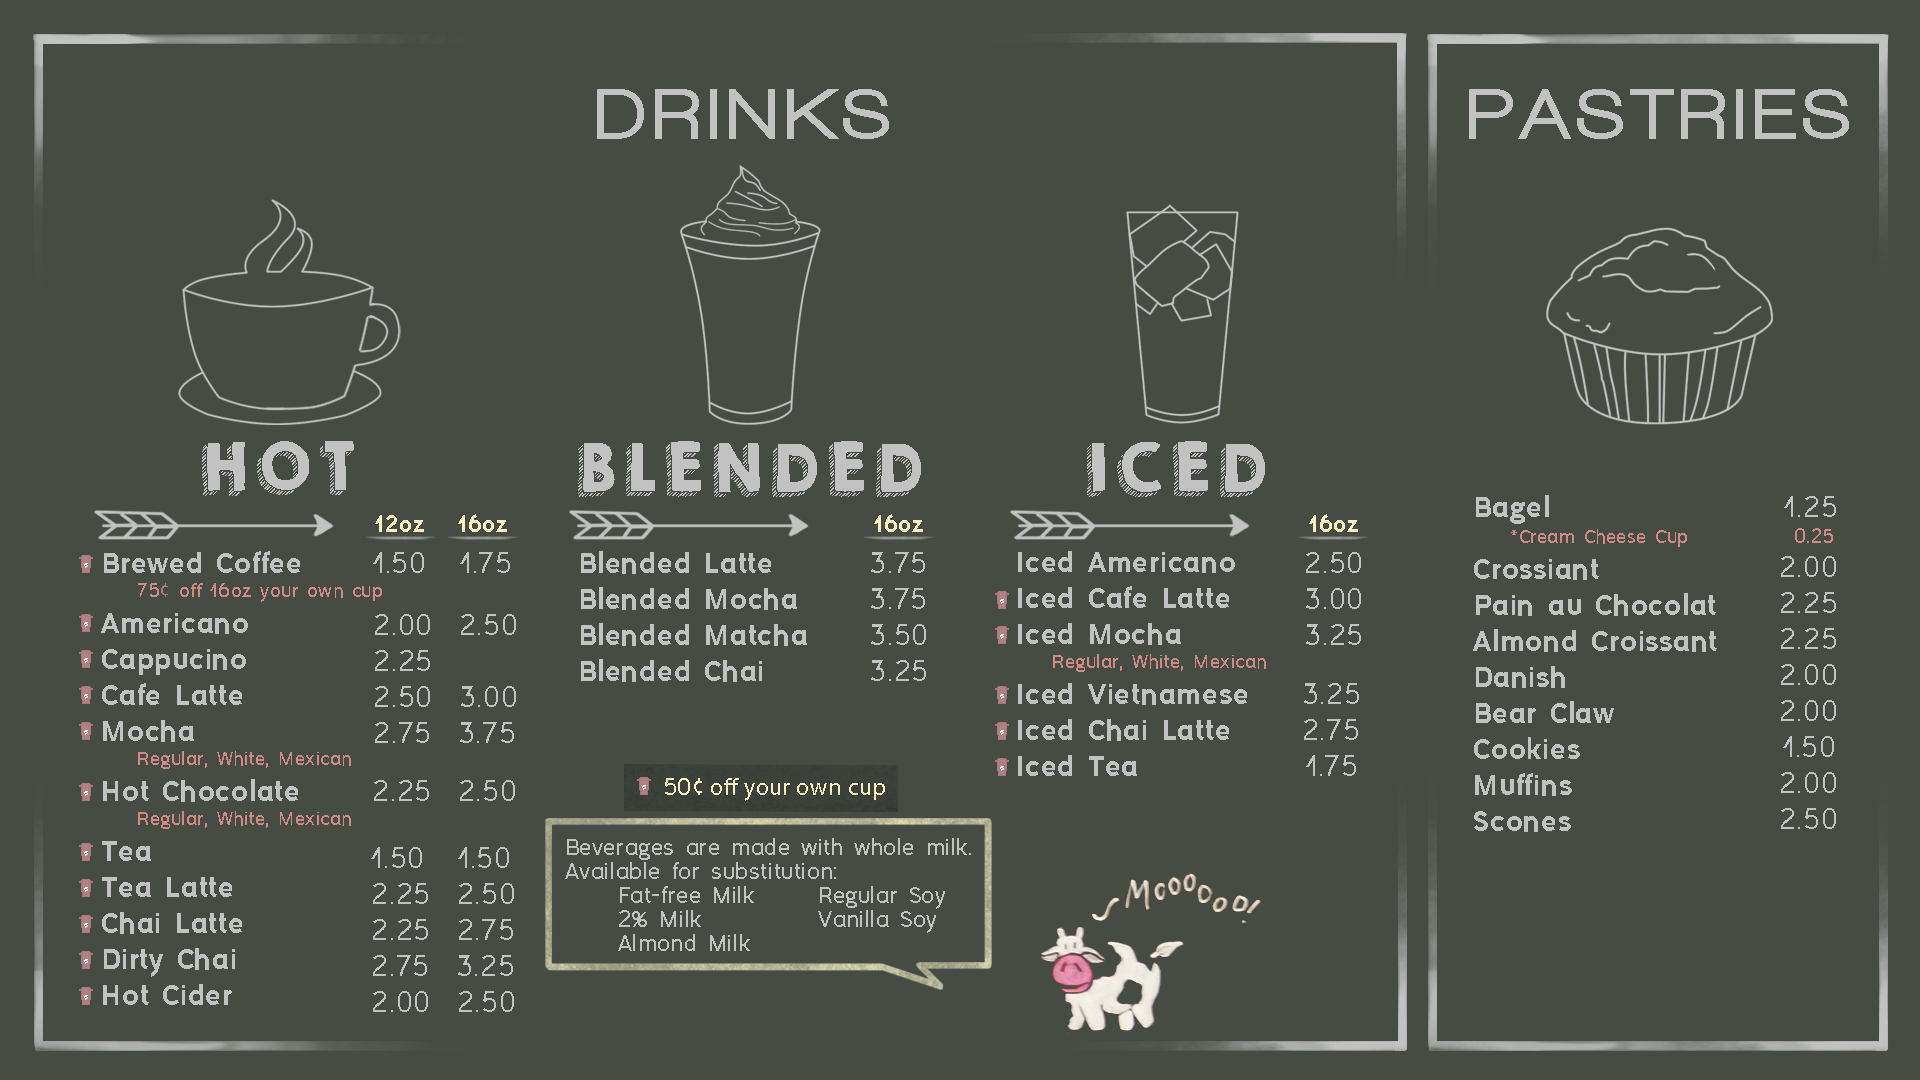
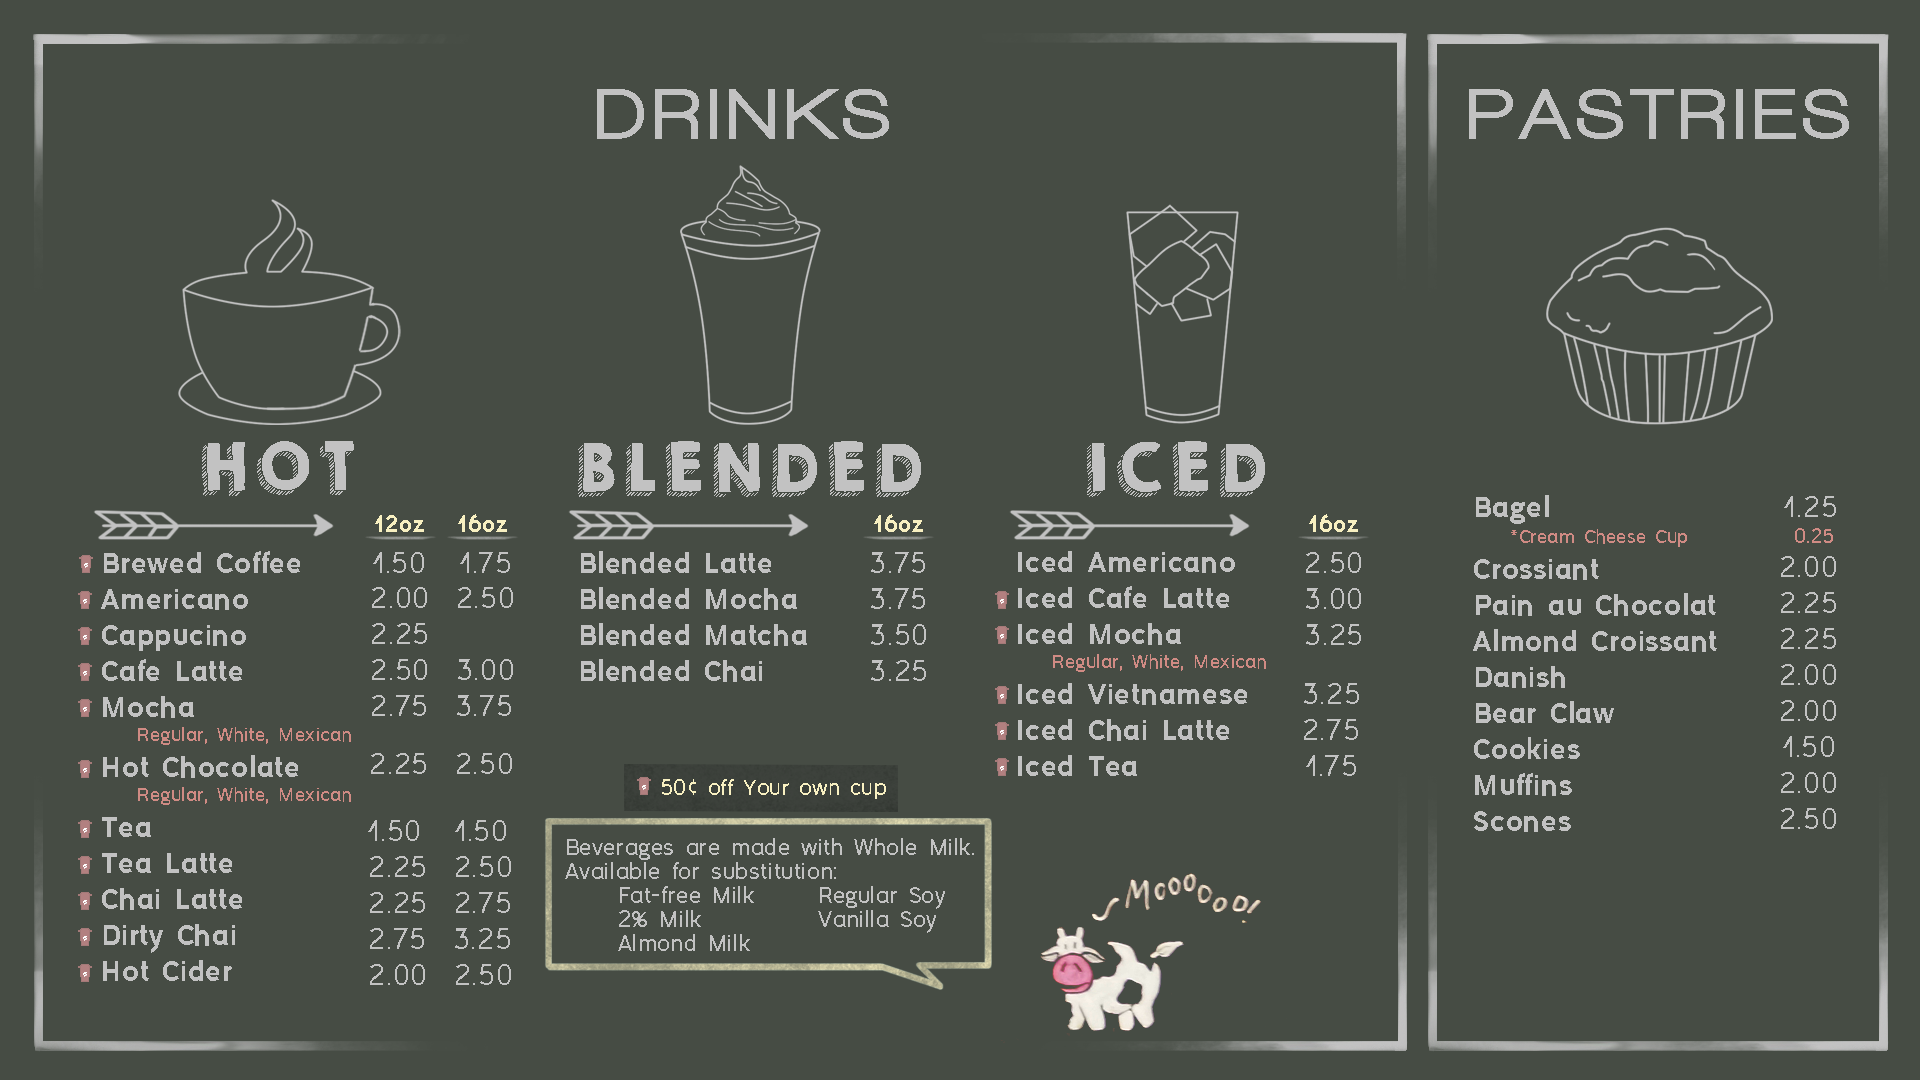
Finished Muirisita bios, inserted new menu img, and other stuffs

diff --git a/dev/static/css/style.css b/dev/static/css/style.css
@@ -140,7 +140,7 @@
 
 #muiristasContent {
   overflow: hidden;
-  width: 75%; }
+  max-width: 1000px; }
 
 .muiristaWrapper {
   float: left;

diff --git a/dev/static/scss/about.scss b/dev/static/scss/about.scss
@@ -53,7 +53,7 @@
 
 #muiristasContent {
     overflow: hidden;
-    width: 75%;
+    max-width: 1000px;
 }
 
 .muiristaWrapper {
